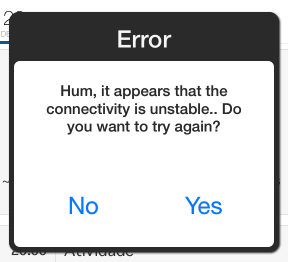
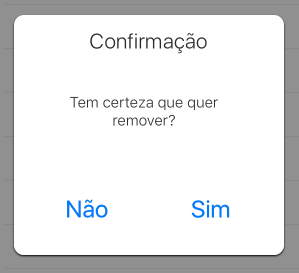
Block Callbacks

diff --git a/ETAlertView/ETAlertView.m b/ETAlertView/ETAlertView.m
@@ -60,21 +60,34 @@
 
 #pragma mark - Initialization Methods
 
-- (id)initWithTitle:(NSString *)title message:(NSString *)message delegate:(id<ETAlertViewDelegate>)delegate cancelButtonTitle:(NSString *)cancelButtonTitle otherButtonTitle:(NSString *)otherButtonTitle {
-    
+- (id)initWithTitle:(NSString *)title message:(NSString *)message confirmationButtonTitle:(NSString *)confirmationButtonTitle {
+    return [self initWithTitle:title message:message negativeButtonTitle:nil positiveButtonTitle:confirmationButtonTitle];
+}
+
+- (id)initWithTitle:(NSString *)title message:(NSString *)message confirmationButtonTitle:(NSString *)confirmationButtonTitle confirmationBlock:(void (^)(void))confirmationBlock {
+    return [self initWithTitle:title message:message negativeButtonTitle:nil positiveButtonTitle:confirmationButtonTitle negativeBlock:nil positiveBlock:confirmationBlock];
+}
+
+- (id)initWithTitle:(NSString *)title message:(NSString *)message negativeButtonTitle:(NSString *)negativeButtonTitle positiveButtonTitle:(NSString *)positiveButtonTitle {
+    return [self initWithTitle:title message:message negativeButtonTitle:negativeButtonTitle positiveButtonTitle:positiveButtonTitle negativeBlock:nil positiveBlock:nil];
+}
+
+- (id)initWithTitle:(NSString *)title message:(NSString *)message negativeButtonTitle:(NSString *)negativeButtonTitle positiveButtonTitle:(NSString *)positiveButtonTitle negativeBlock:(void (^)(void))negativeBlock positiveBlock:(void (^)(void))positiveBlock {
+
     self = [self initWithFrame:CGRectZero];
     
-    self.delegate = delegate;
+    _leftBlock = negativeBlock;
+    _rightBlock = positiveBlock;
     
     [_title setText:title];
     [_mainMessage setText:message];
-    [_yesButton setTitle:otherButtonTitle forState:UIControlStateNormal];
+    [_rightButton setTitle:positiveButtonTitle forState:UIControlStateNormal];
     
-    if (cancelButtonTitle == nil) {
-        [_yesButton setFrame:CGRectMake(_noButton.frame.origin.x, _noButton.frame.origin.y, _mainMessage.frame.size.width, _yesButton.frame.size.height)];
-        [_noButton removeFromSuperview];
+    if (negativeButtonTitle == nil) {
+        [_rightButton setFrame:CGRectMake(_leftButton.frame.origin.x, _leftButton.frame.origin.y, _mainMessage.frame.size.width, _rightButton.frame.size.height)];
+        [_leftButton removeFromSuperview];
     } else {
-        [_noButton setTitle:cancelButtonTitle forState:UIControlStateNormal];
+        [_leftButton setTitle:negativeButtonTitle forState:UIControlStateNormal];
     }
     
     return self;
@@ -114,12 +127,11 @@
     // Listen to window frame changes
     [[NSNotificationCenter defaultCenter] removeObserver:self name:@"UIApplicationDidChangeStatusBarFrameNotification" object:nil];
     
-    if ([_delegate respondsToSelector:@selector(alertView:clickedButtonAtIndex:)]) {
-        if ((UIButton *)sender == _noButton) {
-            [_delegate alertView:self clickedButtonAtIndex:0];
-        } else {
-            [_delegate alertView:self clickedButtonAtIndex:1];
-        }
+    // Call our callbacks
+    if ((UIButton *)sender == _leftButton && _leftBlock != nil) {
+        _leftBlock();
+    } else if ((UIButton *)sender == _rightButton && _rightBlock != nil) {
+        _rightBlock();
     }
     
     [UIView transitionWithView:self duration:0.5 options:UIViewAnimationOptionTransitionCrossDissolve animations:^{

diff --git a/ETAlertView/ETAlertView.h b/ETAlertView/ETAlertView.h
@@ -8,15 +8,6 @@
 
 #import <UIKit/UIKit.h>
 
-@class ETAlertView;
-
-@protocol ETAlertViewDelegate <NSObject>
-@optional
-
-- (void)alertView:(ETAlertView *)alertView clickedButtonAtIndex:(NSInteger)buttonIndex;
-
-@end
-
 @interface ETAlertView : UIView
 
 @property (strong, nonatomic) IBOutlet UIView *masterView;
@@ -24,13 +15,17 @@
 @property (strong, nonatomic) IBOutlet UILabel *title;
 @property (strong, nonatomic) IBOutlet UIView *messageBox;
 @property (strong, nonatomic) IBOutlet UITextView *mainMessage;
-@property (strong, nonatomic) IBOutlet UIButton *yesButton;
-@property (strong, nonatomic) IBOutlet UIButton *noButton;
-@property (assign, nonatomic) NSInteger errorCode;
+@property (strong, nonatomic) IBOutlet UIButton *leftButton;
+@property (strong, nonatomic) IBOutlet UIButton *rightButton;
 
-@property (strong, nonatomic) id<ETAlertViewDelegate> delegate;
+@property (strong, nonatomic) void (^leftBlock)(void);
+@property (strong, nonatomic) void (^rightBlock)(void);
 
-- (id)initWithTitle:(NSString *)title message:(NSString *)message delegate:(id<ETAlertViewDelegate>)delegate cancelButtonTitle:(NSString *)cancelButtonTitle otherButtonTitle:(NSString *)otherButtonTitle;
+- (id)initWithTitle:(NSString *)title message:(NSString *)message confirmationButtonTitle:(NSString *)confirmationButtonTitle;
+- (id)initWithTitle:(NSString *)title message:(NSString *)message confirmationButtonTitle:(NSString *)confirmationButtonTitle confirmationBlock:(void (^)(void))confirmationBlock;
+- (id)initWithTitle:(NSString *)title message:(NSString *)message negativeButtonTitle:(NSString *)negativeButtonTitle positiveButtonTitle:(NSString *)positiveButtonTitle;
+- (id)initWithTitle:(NSString *)title message:(NSString *)message negativeButtonTitle:(NSString *)negativeButtonTitle positiveButtonTitle:(NSString *)positiveButtonTitle negativeBlock:(void (^)(void))negativeBlock positiveBlock:(void (^)(void))positiveBlock;
+
 - (void)show;
 
 @end

diff --git a/README.md b/README.md
@@ -16,7 +16,11 @@ How-to
 Programmatically, just use the following method:
 
 ```
-[[ETAlertView alloc] initWithTitle:NSLocalizedString(@"Error", nil) message:NSLocalizedString(@"Oh oh.. It appears that our server is having some trouble. Do you want to try again?", nil) delegate:self cancelButtonTitle:NSLocalizedString(@"No", nil) otherButtonTitle:NSLocalizedString(@"Yes", nil)];
+
+- (id)initWithTitle:(NSString *)title message:(NSString *)message confirmationButtonTitle:(NSString *)confirmationButtonTitle;
+- (id)initWithTitle:(NSString *)title message:(NSString *)message confirmationButtonTitle:(NSString *)confirmationButtonTitle confirmationBlock:(void (^)(void))confirmationBlock;
+- (id)initWithTitle:(NSString *)title message:(NSString *)message negativeButtonTitle:(NSString *)negativeButtonTitle positiveButtonTitle:(NSString *)positiveButtonTitle;
+- (id)initWithTitle:(NSString *)title message:(NSString *)message negativeButtonTitle:(NSString *)negativeButtonTitle positiveButtonTitle:(NSString *)positiveButtonTitle negativeBlock:(void (^)(void))negativeBlock positiveBlock:(void (^)(void))positiveBlock;
 ```
 
 And then show it onscreen:
@@ -25,12 +29,15 @@ And then show it onscreen:
 [alertView show];
 ```
 
-### Delegates
+### Example
 
 There are some delegates you can implement as callbacks:
 
 ```
-- (void)alertView:(ETAlertView *)alertView clickedButtonAtIndex:(NSInteger)buttonIndex;
+        // Alert message
+        [[[ETAlertView alloc] initWithTitle:NSLocalizedString(@"Confirmation", nil) message:NSLocalizedString(@"Are you sure you want to remove it?", nil) negativeButtonTitle:NSLocalizedString(@"No", nil) positiveButtonTitle:NSLocalizedString(@"Yes", nil) negativeBlock:nil positiveBlock:^{
+            // Commands and requests
+        }] show];
 ```
 
 ### Getters
@@ -42,9 +49,8 @@ There are some properties you can have access to. Accessible at anytime, just KV
 - `@property (strong, nonatomic) IBOutlet UILabel *title;`
 - `@property (strong, nonatomic) IBOutlet UIView *messageBox;`
 - `@property (strong, nonatomic) IBOutlet UIButton *message;`
-- `@property (strong, nonatomic) IBOutlet UIButton *yesButton;`
-- `@property (strong, nonatomic) IBOutlet UIButton *noButton;`
-- `@property (assign, nonatomic) NSInteger errorCode;`
+- `@property (strong, nonatomic) IBOutlet UIButton *leftButton;`
+- `@property (strong, nonatomic) IBOutlet UIButton *rightButton;`
 
 Support
 --------
